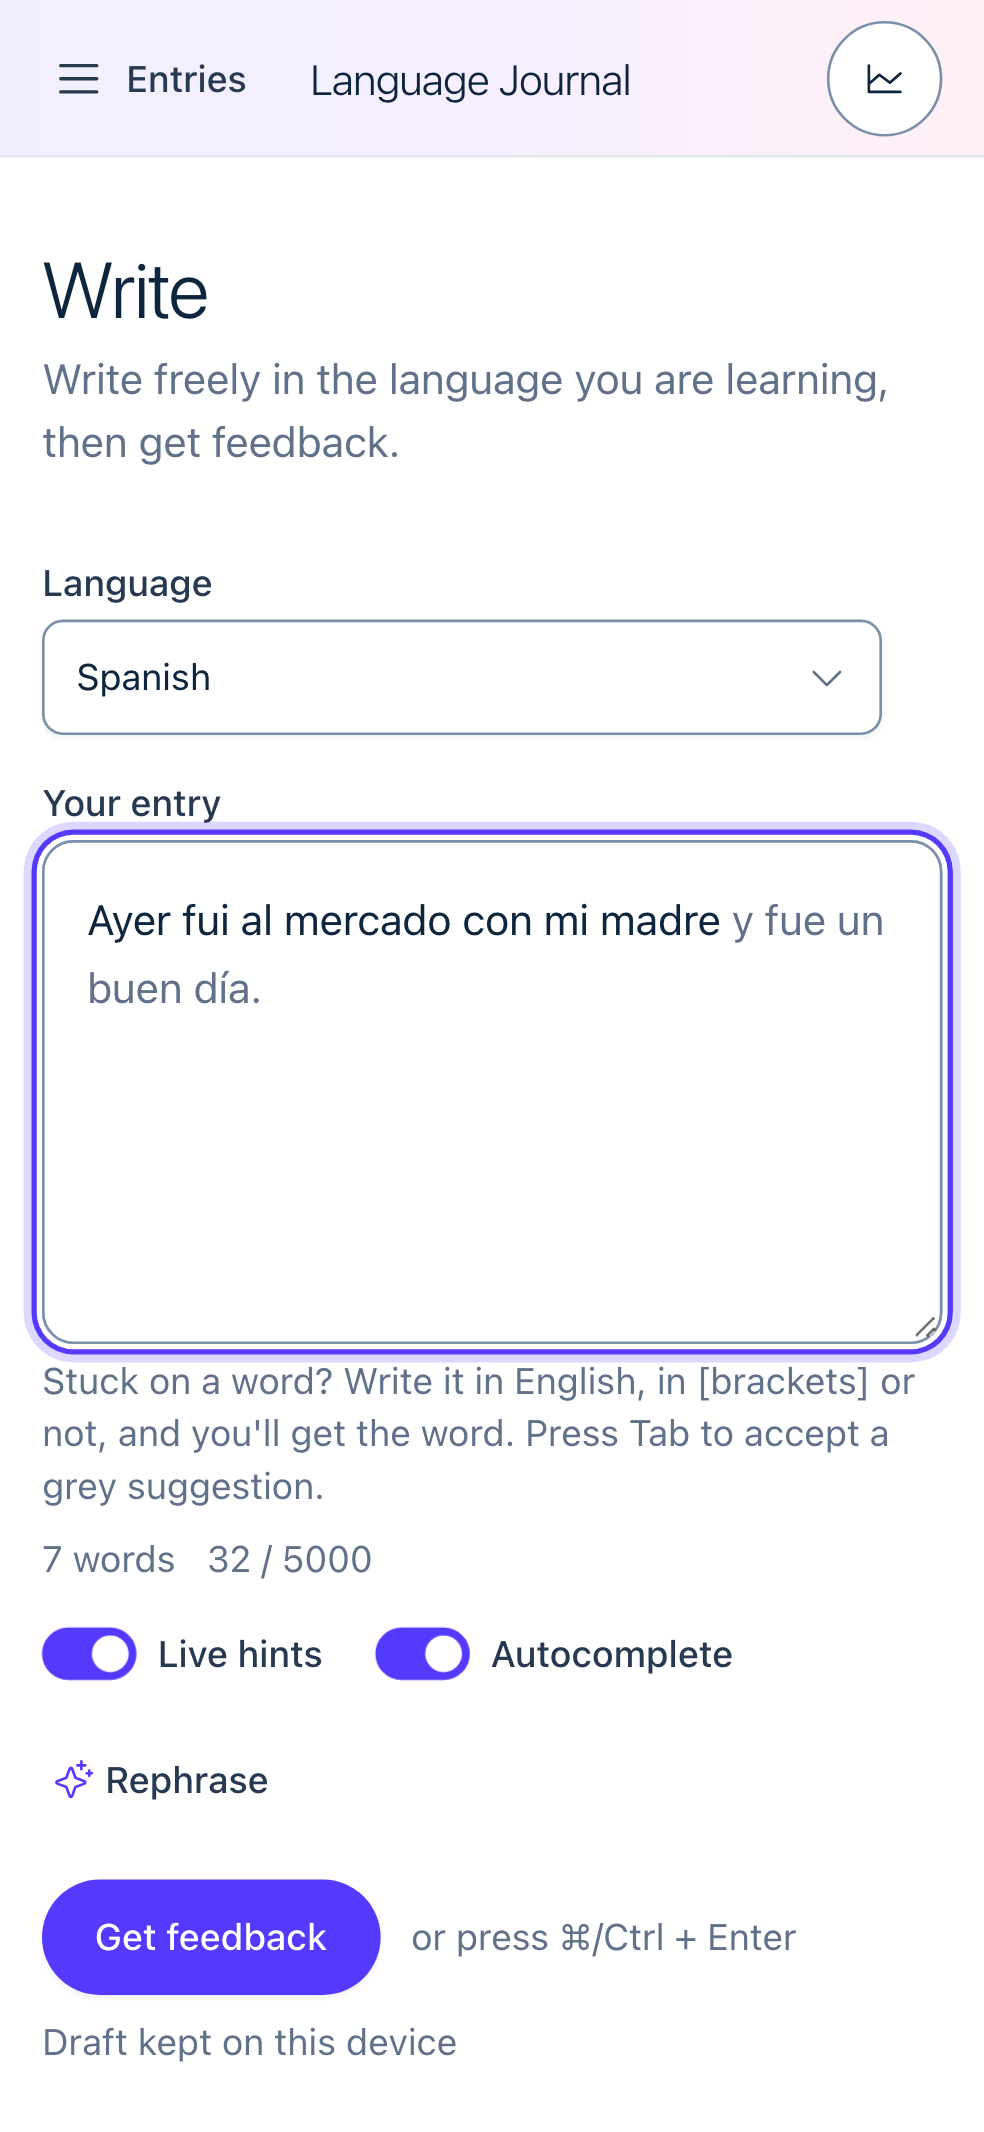
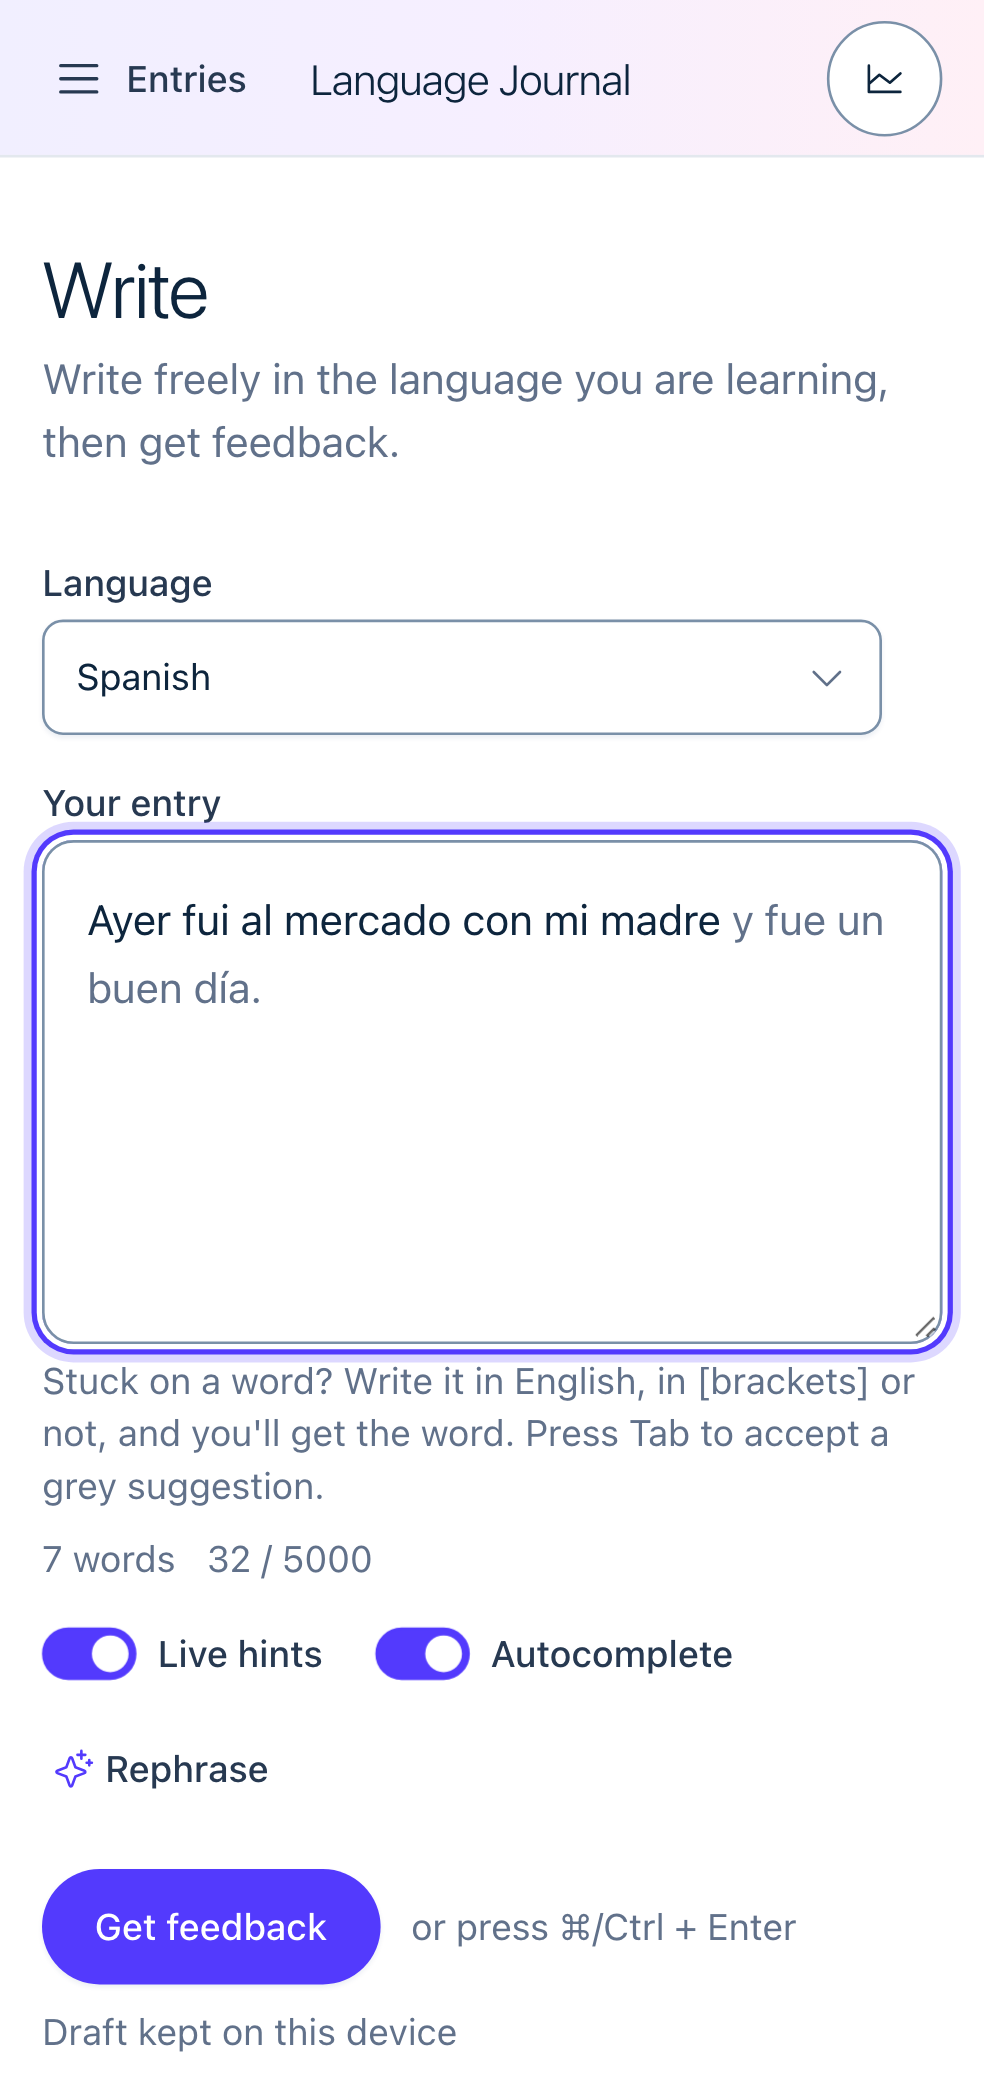
fix(frontend): composer controls wrap as two deliberate groups on phones; the hint count comes last so Rephrase never moves

diff --git a/frontend/src/features/live-hints/LiveHintsControls.tsx b/frontend/src/features/live-hints/LiveHintsControls.tsx
@@ -49,16 +49,22 @@ export function LiveHintsControls({ on, onToggle, hints, announcement, onAccept,
   }
   return (
     <div ref={root} className="flex flex-col gap-2">
-      <div className="-ml-2 flex flex-wrap items-center gap-1">
-        <Switch label="Live hints" checked={on} onChange={onToggle} />
-        {beside}
-        {visible && (
-          <Button variant="ghost" className="gap-1 px-3" aria-expanded={expanded} aria-controls={listId} onClick={() => setExpanded((open) => !open)}>
-            {pluralize(hints.length, 'hint')}
-            <Icon name="chevron" className={cn('size-4 transition-transform motion-reduce:transition-none', expanded && 'rotate-180')} />
-          </Button>
-        )}
-        {children}
+      <div className="-ml-2 flex flex-wrap items-center gap-x-1">
+        <div className="flex items-center gap-1">
+          <Switch label="Live hints" checked={on} onChange={onToggle} />
+          {beside}
+        </div>
+        {/* Its own group: on a phone it wraps as a whole to a second row aligned with the switches, and the hint count
+            comes last so showing or hiding it never moves Rephrase. */}
+        <div className="flex items-center gap-1">
+          {children}
+          {visible && (
+            <Button variant="ghost" className="gap-1 px-3" aria-expanded={expanded} aria-controls={listId} onClick={() => setExpanded((open) => !open)}>
+              {pluralize(hints.length, 'hint')}
+              <Icon name="chevron" className={cn('size-4 transition-transform motion-reduce:transition-none', expanded && 'rotate-180')} />
+            </Button>
+          )}
+        </div>
         {/* aria-live, not role="status": the composer's save status stays the only status. */}
         <p aria-live="polite" className="sr-only">
           {spoken(message, on ? announcement : 0)}
